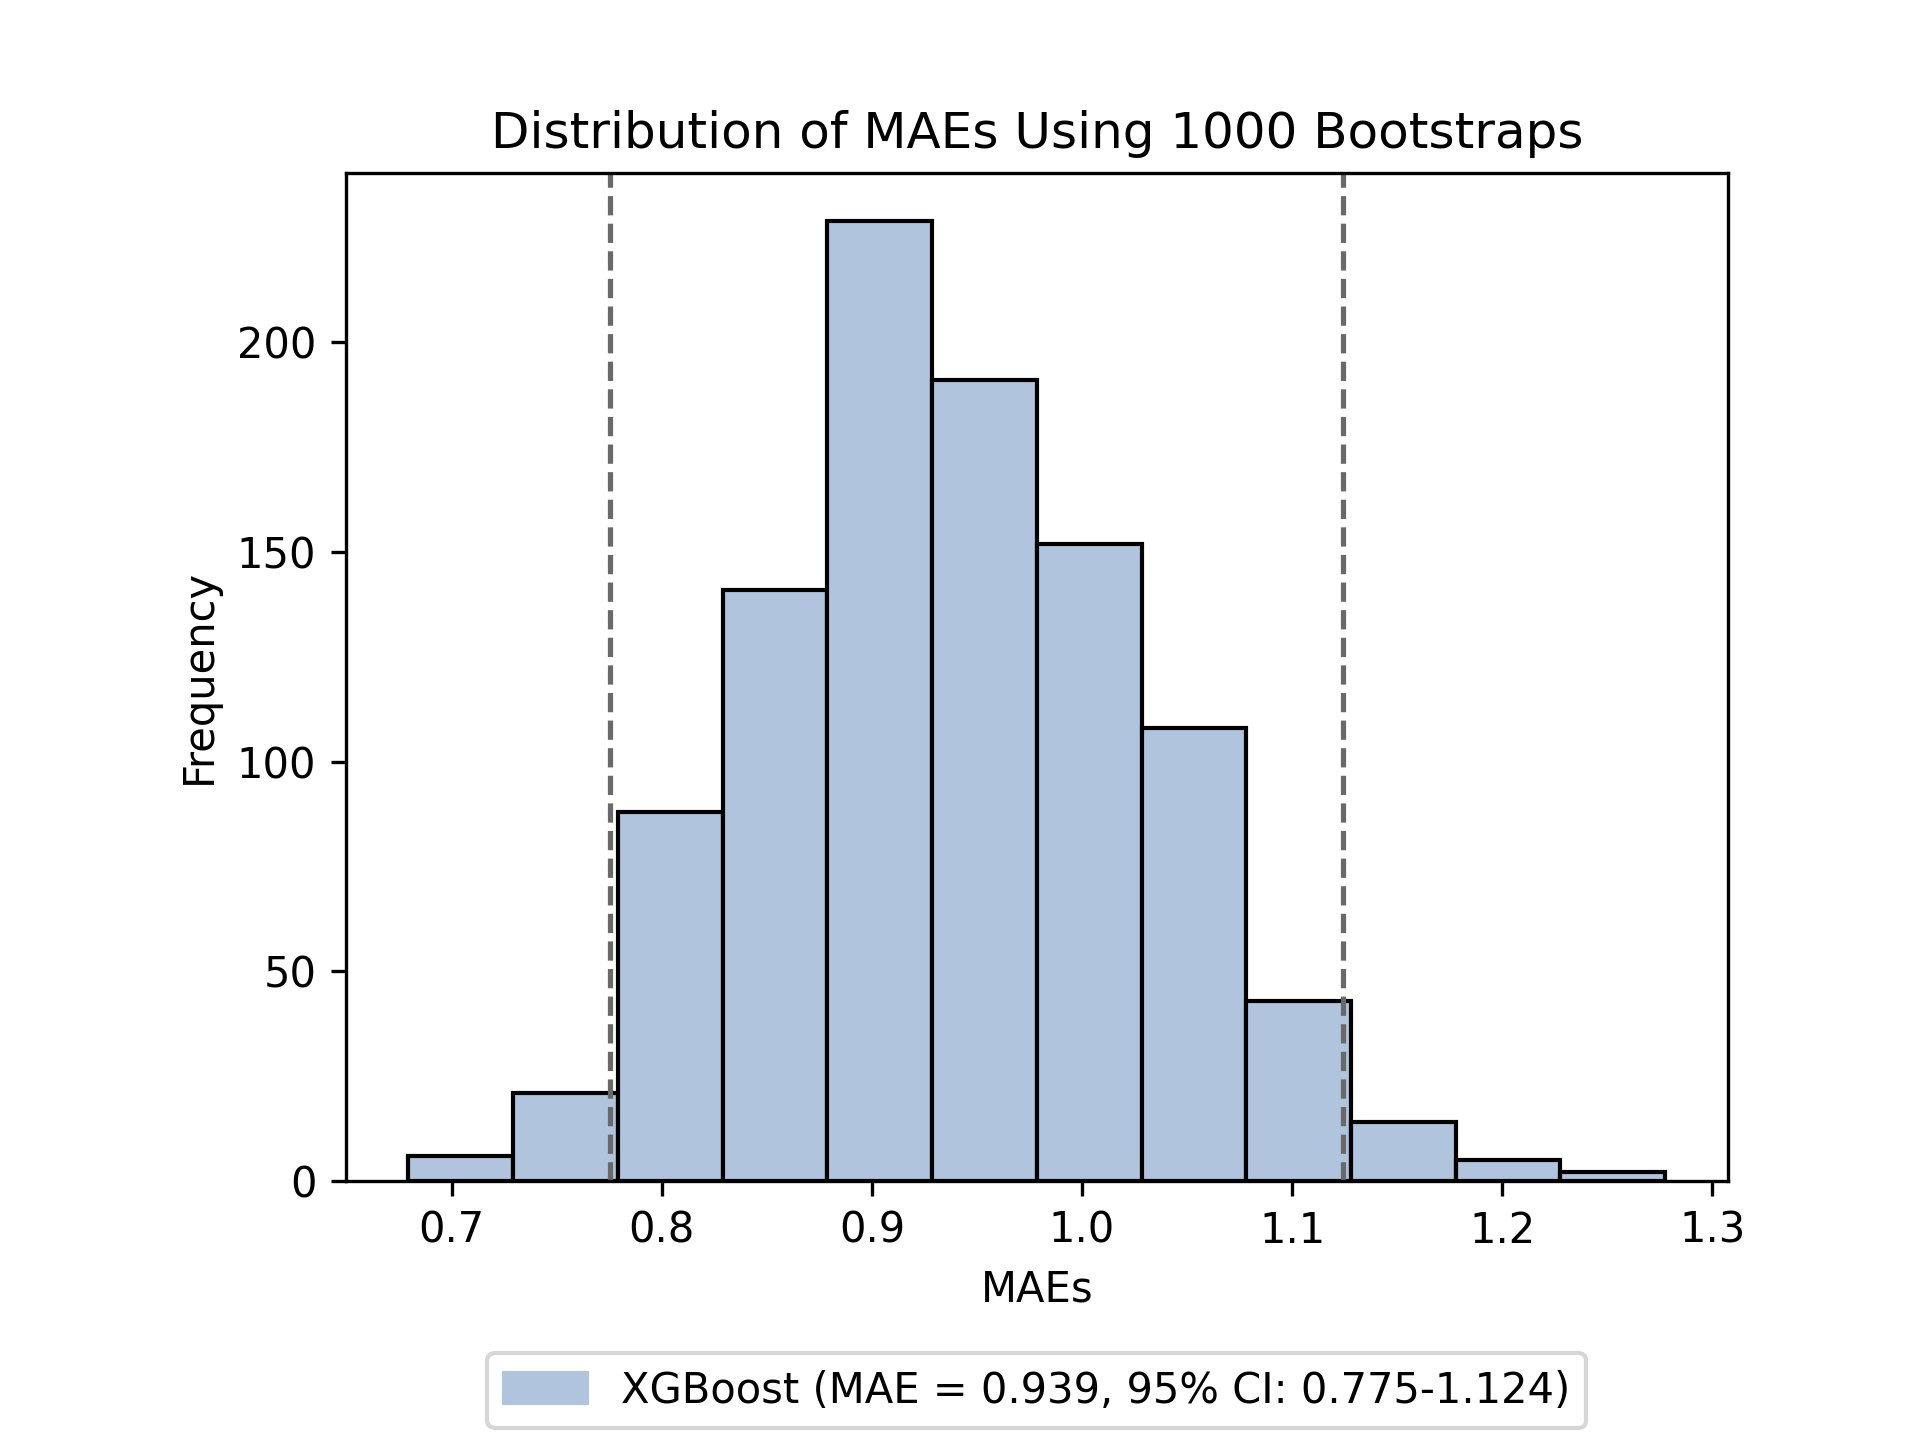
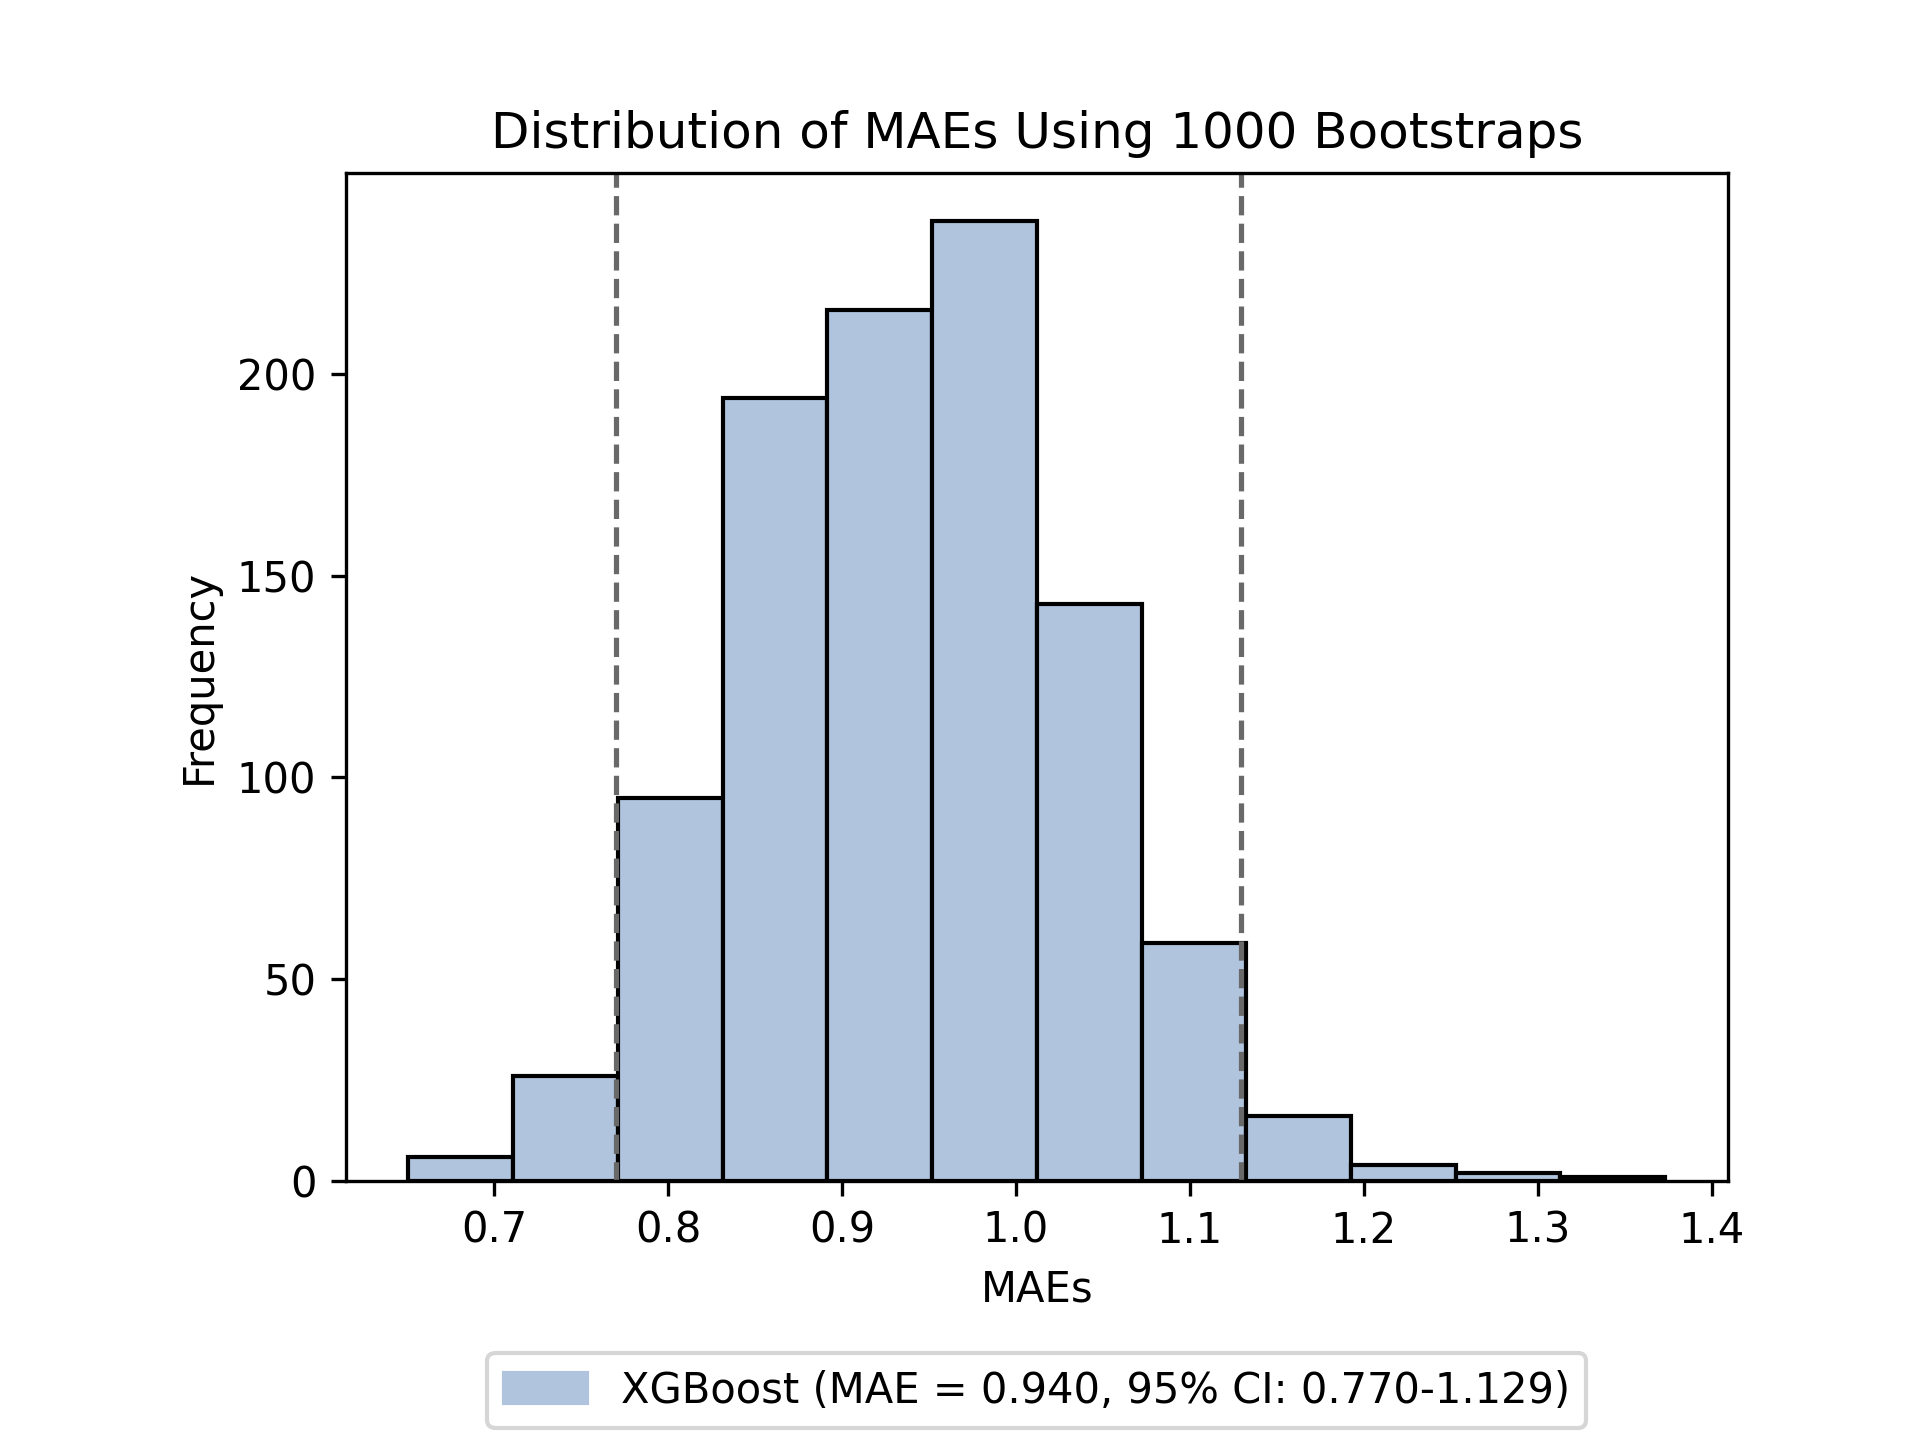
fixing seed bug

diff --git a/main.py b/main.py
@@ -1,13 +1,13 @@
 import os
 import numpy as np
 import pandas as pd
+from matplotlib import pyplot as plt
 from sklearn.metrics import mean_absolute_error
-from sklearn.model_selection import train_test_split, KFold
+from sklearn.model_selection import train_test_split
 import xgboost as xgb
 import optuna
 from xgboost import plot_importance
-import matplotlib.pyplot as plt
-from evaluations import Evaluation
+from evaluation import Evaluation
 
 
 def load_data():
@@ -22,11 +22,13 @@ def load_data():
 
 
 def feature_selection(X):
+    # X.drop(['higher', 'Pstatus'], axis=1, inplace=True)
     return X
 
 
 def feature_extraction(X):
-    X['G1_G2_interaction'] = np.abs(X['G1'] - X['G2'])
+    # X['G1_G2_interaction'] = np.abs(X['G1'] - X['G2'])
+    # X['G1_to_G2_improvement_rate'] = (X['G2'] - X['G1']) / 2
     return X
 
 
@@ -36,7 +38,7 @@ def convert_object_to_category(X):
     return X
 
 
-def find_optimal_params(X, y, seed):
+def find_optimal_params(X, y):
     def objective(trial):
         params = {
             'max_depth': trial.suggest_int('max_depth', 1, 6),
@@ -50,7 +52,7 @@ def find_optimal_params(X, y, seed):
             'reg_lambda': trial.suggest_float('reg_lambda', 0.01, 1.0),
             'random_state': trial.suggest_int('random_state', 1, 1000)
         }
-        model_results = run_regressor(X, y, seed, params)
+        model_results = run_xgboost(X, y, params)
         mae = mean_absolute_error(model_results['y_test'], model_results['y_pred'])
         return mae
     study = optuna.create_study(direction='minimize')
@@ -65,34 +67,37 @@ def find_optimal_params(X, y, seed):
     return trial.params
 
 
-def run_regressor(X, y, seed, optimal_params=None):
-    x_train, x_test, y_train, y_test = train_test_split(X, y, test_size=0.2, random_state=seed)
-    if optimal_params is None:
+def run_xgboost(X, y, params=None):
+    x_train, x_test, y_train, y_test = train_test_split(X, y, test_size=0.2)
+    if params is None:
         model = xgb.XGBRegressor(enable_categorical=True)
     else:
-        model = xgb.XGBRegressor(enable_categorical=True, **optimal_params)
+        model = xgb.XGBRegressor(enable_categorical=True, **params)
     model.fit(x_train, y_train)
     y_pred = model.predict(x_test)
     y_pred = np.round(y_pred)
     y_pred = np.clip(y_pred, 0, 20)
-    # importance = model.get_booster().get_score(importance_type='weight')
-    # print(importance)
-    # fig, ax = plt.subplots(figsize=(10, 8))
-    # plot_importance(model, ax=ax, importance_type='weight')
-    # plt.show()
+    importance = model.get_booster().get_score(importance_type='weight')
+    features_not_used = set(X.columns) - set(importance.keys())
+    if len(features_not_used) > 0:
+        print(f"Features not used: {features_not_used}")
+    print(importance)
+    fig, ax = plt.subplots(figsize=(10, 8))
+    plot_importance(model, ax=ax, importance_type='weight')
+    plt.show()
     results = pd.DataFrame({'y_test': y_test, 'y_pred': y_pred})
     return results
 
 
 def main():
-    seed = 42
+    np.random.seed(42)
     students_df = load_data()
     X = students_df.drop(['G3'], axis=1)
     X = feature_selection(X)
     X = feature_extraction(X)
     X = convert_object_to_category(X)
     y = students_df['G3']
-    # optimal_params = find_optimal_params(X, y, seed)
+    # optimal_params = find_optimal_params(X, y)
     # optimal_params = {
     #     'max_depth': 3,
     #     'learning_rate': 0.010322048435422228,
@@ -105,8 +110,8 @@ def main():
     #     'reg_lambda': 0.7525318986291032,
     #     'random_state': 908
     # }
-    # run_regressor(X, y, seed, optimal_params)
-    model_results = run_regressor(X, y, seed)
+    # run_regressor(X, y, optimal_params)
+    model_results = run_xgboost(X, y)
     model_results.to_csv('results.csv')
     evaluation = Evaluation()
     evaluation.bootstrap_hypothesis_test()

diff --git a/evaluation.py b/evaluation.py
@@ -30,11 +30,11 @@ class Evaluation:
         ci_upper = maeModified + z_score * standartDeviation
         
         if ci_lower <= maeBaseline <= ci_upper:
-            print(f"The baseline score ({maeBaseline}) falls within the confidence interval of the modified model ({ci_lower:.4f} , {ci_upper:.4f}) at {self.alpha * 100:.0f}% confidence level.")
+            print(f"The baseline score ({maeBaseline}) falls within the confidence interval of the modified model ({ci_lower:.3f} , {ci_upper:.3f}) at {self.alpha * 100:.0f}% confidence level.")
             print(f"The difference is not significant.")
             return False
         else:
-            print(f"The baseline score ({maeBaseline}) falls outside the confidence interval of the modified model ({ci_lower:.4f} , {ci_upper:.4f}) at {self.alpha * 100:.0f}% confidence level.")
+            print(f"The baseline score ({maeBaseline}) falls outside the confidence interval of the modified model ({ci_lower:.3f} , {ci_upper:.3f}) at {self.alpha * 100:.0f}% confidence level.")
             print(f"The difference is significant.")
             return True
 
@@ -50,7 +50,7 @@ class Evaluation:
         lower_bound = np.percentile(bootstrap_mae_scores, lower_percentile)
         upper_bound = np.percentile(bootstrap_mae_scores, upper_percentile)
 
-        # Print confidence interval
+        # Print MAE and confidence interval
         print(f"MAE = {np.mean(bootstrap_mae_scores):.3f}, {(1 - self.alpha) * 100:g}% CI: {lower_bound:.3f}-{upper_bound:.3f} (based on {self.number_of_bootstrap_samples} bootstraps).")
         
         # Hypothesis testing
